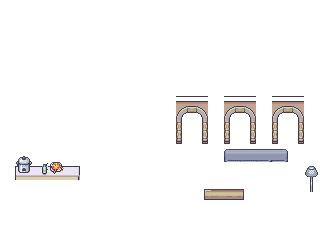
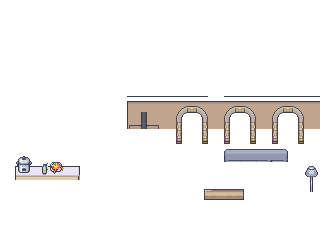
NPC Behaviors, Rendering improvements, wall and sprite adjust

diff --git a/src/Person.js b/src/Person.js
@@ -34,31 +34,60 @@ class Person extends GameObject {
     }
     
     startBehavior(state, behavior) {
-        // Set character direction to whatever behavior has
-        this.direction = state.arrow;
+        //Set character direction to whatever behavior has
+        this.direction = behavior.direction;
+        
         if (behavior.type === "walk") {
-            // Stop here if space is not free
-            if(state.map.isSpaceTaken(this.x, this.y, this.direction)) {
-                return;
-            }
-            // Ready to walk
-            state.map.moveWall(this.x, this.y, this.direction);
-            this.movingProgressRemaining = 16;
-        }
-    }
-
-    updatePosition() {
-        const [property, change] = this.directionUpdate[this.direction];
-        this[property] += change;
-        this.movingProgressRemaining -= 1;
-    }
-
-    updateSprite() {
-
-        if (this.movingProgressRemaining > 0) {
-            this.sprite.setAnimation("walk-"+this.direction);
+          //Stop here if space is not free
+          if (state.map.isSpaceTaken(this.x, this.y, this.direction)) {
+    
+            behavior.retry && setTimeout(() => {
+              this.startBehavior(state, behavior)
+            }, 10);
+    
             return;
+          }
+    
+          //Ready to walk!
+          state.map.moveWall(this.x, this.y, this.direction);
+          this.movingProgressRemaining = 16;
+          this.updateSprite(state);
+
+          if(this.isPlayerControlled) {
+            console.log(utils.nextPosition(this.x, this.y, this.direction)) // Player Position for Debugging
+          }
         }
-        this.sprite.setAnimation("idle-"+this.direction);
+    
+        if (behavior.type === "stand") {
+          setTimeout(() => {
+            utils.emitEvent("PersonStandComplete", {
+              whoId: this.id
+            })
+          }, behavior.time)
+        }
+    
+      }
+    
+      updatePosition() {
+          const [property, change] = this.directionUpdate[this.direction];
+          this[property] += change;
+          this.movingProgressRemaining -= 1;
+    
+          if (this.movingProgressRemaining === 0) {
+            //We finished the walk!
+            utils.emitEvent("PersonWalkingComplete", {
+              whoId: this.id
+            })
+    
+          }
+      }
+    
+      updateSprite() {
+        if (this.movingProgressRemaining > 0) {
+          this.sprite.setAnimation("walk-"+this.direction);
+          return;
+        }
+        this.sprite.setAnimation("idle-"+this.direction);    
+      }
+    
     }
-}

diff --git a/src/OverworldMap.js b/src/OverworldMap.js
@@ -8,6 +8,8 @@ class OverworldMap {
 
         this.upperImage = new Image();
         this.upperImage.src = config.upperSrc; // objects over the player's head
+
+        this.isCutscenePlaying = false;
     }
 
     drawLowerImage(ctx, cameraPerson) {
@@ -28,11 +30,13 @@ class OverworldMap {
     }
 
     mountObjects() {
-        Object.values(this.gameObjects).forEach(o => {
+        Object.keys(this.gameObjects).forEach(key => {
 
-            //TODO: determine if this object should actually mount
+            let object = this.gameObjects[key];
+            object.id = key;
 
-            o.mount(this);
+
+            object.mount(this);
         })
     }
 
@@ -46,7 +50,7 @@ class OverworldMap {
 
     moveWall(wasX, wasY, direction) {
         this.removeWall(wasX, wasY);
-        const {x,y} = utils.nextPosition(wasX, wasY, direction);
+        const {x, y} = utils.nextPosition(wasX, wasY, direction);
         this.addWall(x, y);
     }
 
@@ -74,8 +78,15 @@ window.OverworldMaps = {
             }),
             npc1: new Person({
                 x: utils.withGrid(16),
-                y: utils.withGrid(3),
-                src: "../assets/characters/npc1.png"
+                y: utils.withGrid(13),
+                src: "../assets/characters/character3.png",
+                behaviorLoop: [
+                    { type: "walk",  direction: "left" },
+                    { type: "stand",  direction: "up", time: 800 },
+                    { type: "walk",  direction: "up" },
+                    { type: "walk",  direction: "right" },
+                    { type: "walk",  direction: "down" },
+                ]
             }),
         },
         walls: {}

diff --git a/src/OverworldEvent.js b/src/OverworldEvent.js
@@ -1,0 +1,54 @@
+class OverworldEvent {
+    constructor({ map, event}) {
+      this.map = map;
+      this.event = event;
+    }
+  
+    stand(resolve) {
+      const who = this.map.gameObjects[ this.event.who ];
+      who.startBehavior({
+        map: this.map
+      }, {
+        type: "stand",
+        direction: this.event.direction,
+        time: this.event.time
+      })
+      
+      //Set up a handler to complete when correct person is done walking, then resolve the event
+      const completeHandler = e => {
+        if (e.detail.whoId === this.event.who) {
+          document.removeEventListener("PersonStandComplete", completeHandler);
+          resolve();
+        }
+      }
+      document.addEventListener("PersonStandComplete", completeHandler)
+    }
+  
+    walk(resolve) {
+      const who = this.map.gameObjects[ this.event.who ];
+      who.startBehavior({
+        map: this.map
+      }, {
+        type: "walk",
+        direction: this.event.direction,
+        retry: true
+      })
+  
+      //Set up a handler to complete when correct person is done walking, then resolve the event
+      const completeHandler = e => {
+        if (e.detail.whoId === this.event.who) {
+          document.removeEventListener("PersonWalkingComplete", completeHandler);
+          resolve();
+        }
+      }
+      document.addEventListener("PersonWalkingComplete", completeHandler)
+  
+    }
+  
+    init() {
+      return new Promise(resolve => {
+        this[this.event.type](resolve)      
+      })
+    }
+  
+  }

diff --git a/src/GameObject.js b/src/GameObject.js
@@ -1,5 +1,6 @@
 class GameObject {
     constructor(config) {
+        this.id = null;
         this.isMounted = false;
         this.x = config.x || 0;
         this.y = config.y || 0;
@@ -8,14 +9,47 @@ class GameObject {
             gameObject: this,
             src: config.src || "../assets/characters/character1.png",
         });
+
+        this.behaviorLoop = config.behaviorLoop || [];
+        this.behaviorLoopIndex = 0;
     }
 
     mount(map) {
         this.isMounted = true;
         map.addWall(this.x, this.y);
+
+        // If we have a behavior, kick off after a short delay so that
+
+        setTimeout(() => {
+            this.doBehaviorEvent(map);
+        }, 10)
     }
 
     update() {
 
+    }
+
+    async doBehaviorEvent(map) {
+        // Do nothing if cutscene is playing or no behavior
+        if (map.isCutscenePlaying || this.behaviorLoop.length === 0) {
+            return;
+          }
+
+        // Setting up event with relevant info
+        let eventConfig = this.behaviorLoop[this.behaviorLoopIndex];
+        eventConfig.who = this.id;
+
+        // Create event instance out of our next event config
+        const eventHandler = new OverworldEvent({ map, event: eventConfig });
+        await eventHandler.init(); 
+
+        // Setting next event to fire
+        this.behaviorLoopIndex += 1;
+        if (this.behaviorLoopIndex === this.behaviorLoop.length) {
+            this.behaviorLoopIndex = 0;
+        }
+
+        // Loop
+        this.doBehaviorEvent(map);
     }
 }

diff --git a/src/Sprite.js b/src/Sprite.js
@@ -29,7 +29,7 @@ class Sprite {
             "walk-up"    : [[6,2],[7,2],[8,2],[9,2],[10,2],[11,2]],
             "walk-left"  : [[12,2],[13,2],[14, 2],[15,2],[16,2],[17,2]],
         }
-        this.currentAnimation = "idle-up" // config.currentAnimation || "idle-down";
+        this.currentAnimation = "idle-up"; // config.currentAnimation || "idle-down";
         this.currentAnimationFrame = 0;
 
         this.animationFrameLimit = config.animationFrameLimit || 5; // animation speed
@@ -40,7 +40,10 @@ class Sprite {
     }
 
     get frame() {
-        return this.animations[this.currentAnimation][this.currentAnimationFrame];
+        if (!this.animations[this.currentAnimation]) {
+            console.log("x")
+        }
+        return this.animations[this.currentAnimation][this.currentAnimationFrame]
     }
 
     setAnimation(key) {
@@ -71,14 +74,14 @@ class Sprite {
         const x = this.gameObject.x + utils.withGrid(10.5) - cameraPerson.x;
         const y = this.gameObject.y - 16 + utils.withGrid(6) - cameraPerson.y;
 
-        this.isShadowLoaded && ctx.drawImage(this.shadow, x-8, y+2); 
+        this.isShadowLoaded && ctx.drawImage(this.shadow, x-8, y-2); 
 
         const [frameX, frameY] = this.frame;
 
         this.isLoaded && ctx.drawImage(this.image,
             frameX *16, frameY * 32,
             16,32,
-            x,y,
+            x,y-4,
             16,32
         )
 

diff --git a/src/Overworld.js b/src/Overworld.js
@@ -30,9 +30,11 @@ class Overworld {
             this.map.drawLowerImage(this.ctx, cameraPerson);
     
             // Draw Game Objects
-            Object.values(this.map.gameObjects).forEach(object => {
+            Object.values(this.map.gameObjects).sort((a,b) => {
+                return a.y - b.y;
+              }).forEach(object => {
                 object.sprite.draw(this.ctx, cameraPerson);
-            })
+              })
     
             // Draw Upper Layer
             this.map.drawUpperImage(this.ctx, cameraPerson);

diff --git a/src/index.html b/src/index.html
@@ -33,6 +33,7 @@
     <script src="Person.js"></script>
     <script src="Sprite.js"></script>
     <script src="OverworldMap.js"></script>
+    <script src="OverworldEvent.js"></script>
     <script src="init.js"></script>
     <script src="Fullscreen.js"></script>
     <script>

diff --git a/src/utils.js b/src/utils.js
@@ -19,5 +19,11 @@ const utils = {
             y += size;
         }
         return {x,y};
-    }
+    },
+    emitEvent(name, detail) {
+    const event = new CustomEvent(name, {
+      detail
+    });
+    document.dispatchEvent(event);
+  }
 }
